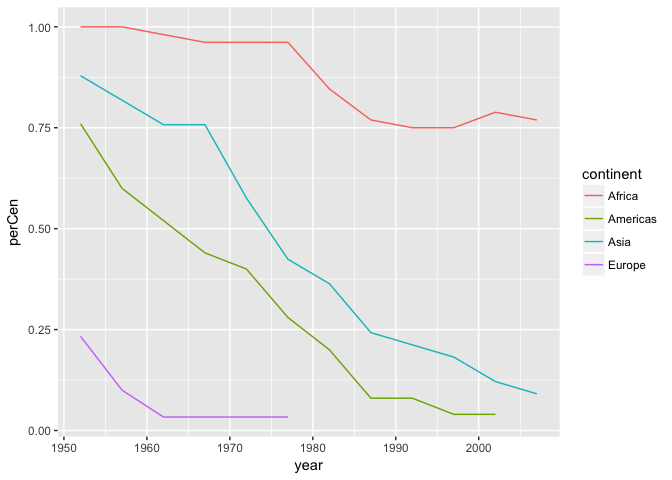
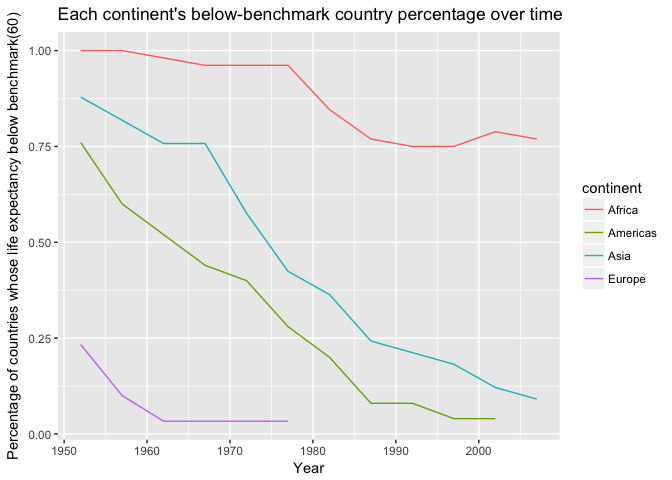
x,y labs added

diff --git a/HW3_Gapminder_dplyr.md b/HW3_Gapminder_dplyr.md
@@ -37,7 +37,10 @@ knitr::kable(tbl1)
 ``` r
 tbl1 %>%
   ggplot(aes(x= continent, y = medianGDP, color=continent)) + 
-  geom_crossbar(aes(ymin  = minGDP, ymax = maxGDP), position = "dodge", width = 0.45)
+  geom_crossbar(aes(ymin  = minGDP, ymax = maxGDP), position = "dodge", width = 0.45) +
+  xlab("Continent") +
+  ylab("GDP per capita") +
+  ggtitle("Range of GDP per capita separated by continent")
 ```
 
 ![](HW3_Gapminder_dplyr_files/figure-markdown_github-ascii_identifiers/unnamed-chunk-3-1.png)
@@ -45,7 +48,7 @@ tbl1 %>%
 2. Look at the spread of GDP per capita within the continents.
 --------------------------------------------------------------
 
-Look at the sd
+Look at the IQR
 
 ``` r
 tbl2 <-
@@ -68,7 +71,10 @@ knitr::kable(tbl2)
 ``` r
 gapminder %>%
   ggplot(aes(x= continent, y = gdpPercap, color=continent)) + 
-  geom_boxplot()
+  geom_boxplot() +
+  xlab("Continent") +
+  ylab("GDP per capita") +
+  ggtitle("Boxplot of GDP per capita separated by continent")
 ```
 
 ![](HW3_Gapminder_dplyr_files/figure-markdown_github-ascii_identifiers/unnamed-chunk-5-1.png)
@@ -107,7 +113,10 @@ gapminder %>%
   mutate(totPop = sum(as.numeric(pop)), 
          weighted_lifeE = weighted.mean(lifeExp, pop)) %>%
   ggplot(aes(x = year, y = weighted_lifeE, size = totPop)) +
-  geom_point()
+  geom_point()+
+  xlab("Year") +
+  ylab("Weighted life expectancy with the weight of population") +
+  ggtitle("Population-weighted life expectancy changes over time")
 ```
 
 ![](HW3_Gapminder_dplyr_files/figure-markdown_github-ascii_identifiers/unnamed-chunk-7-1.png)
@@ -160,7 +169,10 @@ tbl4 %>%
   ggplot(aes(x = year, y = lifeExp)) + 
   facet_wrap(~continent) + 
   geom_point(alpha = 0.35, color = "dark blue") + 
-  geom_smooth(method = "loess")
+  geom_smooth(method = "loess") +
+  xlab("Year") +
+  ylab("Life expectancy") +
+  ggtitle("Life expectancy changes over time for each continent")
 ```
 
 ![](HW3_Gapminder_dplyr_files/figure-markdown_github-ascii_identifiers/unnamed-chunk-10-1.png)
@@ -175,10 +187,10 @@ tbl5 <-
   gapminder %>%
   group_by(continent, year) %>% 
   mutate(NumOfCountries = n(), shareOfThisCountry = 1/NumOfCountries) %>%
-  filter(lifeExp <= benchmark) %>%
+  filter(lifeExp < benchmark) %>%
   summarise(n = n(), perCen = sum(shareOfThisCountry))
 
-knitr::kable(tbl5)
+knitr::kable(head(tbl5))
 ```
 
 | continent |  year|    n|     perCen|
@@ -189,46 +201,14 @@ knitr::kable(tbl5)
 | Africa    |  1967|   50|  0.9615385|
 | Africa    |  1972|   50|  0.9615385|
 | Africa    |  1977|   50|  0.9615385|
-| Africa    |  1982|   44|  0.8461538|
-| Africa    |  1987|   40|  0.7692308|
-| Africa    |  1992|   39|  0.7500000|
-| Africa    |  1997|   39|  0.7500000|
-| Africa    |  2002|   41|  0.7884615|
-| Africa    |  2007|   40|  0.7692308|
-| Americas  |  1952|   19|  0.7600000|
-| Americas  |  1957|   15|  0.6000000|
-| Americas  |  1962|   13|  0.5200000|
-| Americas  |  1967|   11|  0.4400000|
-| Americas  |  1972|   10|  0.4000000|
-| Americas  |  1977|    7|  0.2800000|
-| Americas  |  1982|    5|  0.2000000|
-| Americas  |  1987|    2|  0.0800000|
-| Americas  |  1992|    2|  0.0800000|
-| Americas  |  1997|    1|  0.0400000|
-| Americas  |  2002|    1|  0.0400000|
-| Asia      |  1952|   29|  0.8787879|
-| Asia      |  1957|   27|  0.8181818|
-| Asia      |  1962|   25|  0.7575758|
-| Asia      |  1967|   25|  0.7575758|
-| Asia      |  1972|   19|  0.5757576|
-| Asia      |  1977|   14|  0.4242424|
-| Asia      |  1982|   12|  0.3636364|
-| Asia      |  1987|    8|  0.2424242|
-| Asia      |  1992|    7|  0.2121212|
-| Asia      |  1997|    6|  0.1818182|
-| Asia      |  2002|    4|  0.1212121|
-| Asia      |  2007|    3|  0.0909091|
-| Europe    |  1952|    7|  0.2333333|
-| Europe    |  1957|    3|  0.1000000|
-| Europe    |  1962|    1|  0.0333333|
-| Europe    |  1967|    1|  0.0333333|
-| Europe    |  1972|    1|  0.0333333|
-| Europe    |  1977|    1|  0.0333333|
 
 ``` r
 tbl5 %>%
   ggplot(aes(x= year, y = perCen, group= continent, color= continent)) +
-  geom_line()
+  geom_line() +
+  xlab("Year") +
+  ylab("Percentage of countries whose life expectancy below benchmark(60)") +
+  ggtitle("Each continent's below-benchmark country percentage over time")
 ```
 
 ![](HW3_Gapminder_dplyr_files/figure-markdown_github-ascii_identifiers/unnamed-chunk-12-1.png)
@@ -251,72 +231,26 @@ tbl6 <-
   summarise(totPop = sum(as.numeric(pop))) %>%
   mutate(delta = delta(totPop)) %>%
   na.omit()
-knitr::kable(tbl6)
+knitr::kable(head(tbl6))
 ```
 
-| continent |  year|      totPop|      delta|
-|:----------|-----:|-----------:|----------:|
-| Africa    |  1957|   264837738|   27197237|
-| Africa    |  1962|   296516865|   31679127|
-| Africa    |  1967|   335289489|   38772624|
-| Africa    |  1972|   379879541|   44590052|
-| Africa    |  1977|   433061021|   53181480|
-| Africa    |  1982|   499348587|   66287566|
-| Africa    |  1987|   574834110|   75485523|
-| Africa    |  1992|   659081517|   84247407|
-| Africa    |  1997|   743832984|   84751467|
-| Africa    |  2002|   833723916|   89890932|
-| Africa    |  2007|   929539692|   95815776|
-| Americas  |  1957|   386953916|   41801470|
-| Americas  |  1962|   433270254|   46316338|
-| Americas  |  1967|   480746623|   47476369|
-| Americas  |  1972|   529384210|   48637587|
-| Americas  |  1977|   578067699|   48683489|
-| Americas  |  1982|   630290920|   52223221|
-| Americas  |  1987|   682753971|   52463051|
-| Americas  |  1992|   739274104|   56520133|
-| Americas  |  1997|   796900410|   57626306|
-| Americas  |  2002|   849772762|   52872352|
-| Americas  |  2007|   898871184|   49098422|
-| Asia      |  1957|  1562780599|  167423248|
-| Asia      |  1962|  1696357182|  133576583|
-| Asia      |  1967|  1905662900|  209305718|
-| Asia      |  1972|  2150972248|  245309348|
-| Asia      |  1977|  2384513556|  233541308|
-| Asia      |  1982|  2610135582|  225622026|
-| Asia      |  1987|  2871220762|  261085180|
-| Asia      |  1992|  3133292191|  262071429|
-| Asia      |  1997|  3383285500|  249993309|
-| Asia      |  2002|  3601802203|  218516703|
-| Asia      |  2007|  3811953827|  210151624|
-| Europe    |  1957|   437890351|   19769505|
-| Europe    |  1962|   460355155|   22464804|
-| Europe    |  1967|   481178958|   20823803|
-| Europe    |  1972|   500635059|   19456101|
-| Europe    |  1977|   517164531|   16529472|
-| Europe    |  1982|   531266901|   14102370|
-| Europe    |  1987|   543094160|   11827259|
-| Europe    |  1992|   558142797|   15048637|
-| Europe    |  1997|   568944148|   10801351|
-| Europe    |  2002|   578223869|    9279721|
-| Europe    |  2007|   586098529|    7874660|
-| Oceania   |  1957|    11941976|    1255970|
-| Oceania   |  1962|    13283518|    1341542|
-| Oceania   |  1967|    14600414|    1316896|
-| Oceania   |  1972|    16106100|    1505686|
-| Oceania   |  1977|    17239000|    1132900|
-| Oceania   |  1982|    18394850|    1155850|
-| Oceania   |  1987|    19574415|    1179565|
-| Oceania   |  1992|    20919651|    1345236|
-| Oceania   |  1997|    22241430|    1321779|
-| Oceania   |  2002|    23454829|    1213399|
-| Oceania   |  2007|    24549947|    1095118|
+| continent |  year|     totPop|     delta|
+|:----------|-----:|----------:|---------:|
+| Africa    |  1957|  264837738|  27197237|
+| Africa    |  1962|  296516865|  31679127|
+| Africa    |  1967|  335289489|  38772624|
+| Africa    |  1972|  379879541|  44590052|
+| Africa    |  1977|  433061021|  53181480|
+| Africa    |  1982|  499348587|  66287566|
 
 ``` r
 tbl6 %>%
   ggplot(aes(x = year, y = delta, color = continent, group= continent)) +
   geom_line() + 
-  geom_point() 
+  geom_point() +
+  xlab("Year") +
+  ylab("Increase in the population") +
+  ggtitle("The increase in population over time separated by continent")
 ```
 
 ![](HW3_Gapminder_dplyr_files/figure-markdown_github-ascii_identifiers/unnamed-chunk-14-1.png)
@@ -371,7 +305,10 @@ knitr::kable(tbl7)
 tbl7 %>%
   ggplot(aes(x = year, y = gdpIncPC, color = country)) + 
   geom_point() + 
-  geom_smooth(method = "lm")
+  geom_smooth(method = "lm")+
+  xlab("Year") +
+  ylab("Increase in the GDP per capita") +
+  ggtitle("Increase in the GDP per capita over time for country China and Japan")
 ```
 
 ![](HW3_Gapminder_dplyr_files/figure-markdown_github-ascii_identifiers/unnamed-chunk-16-1.png)
